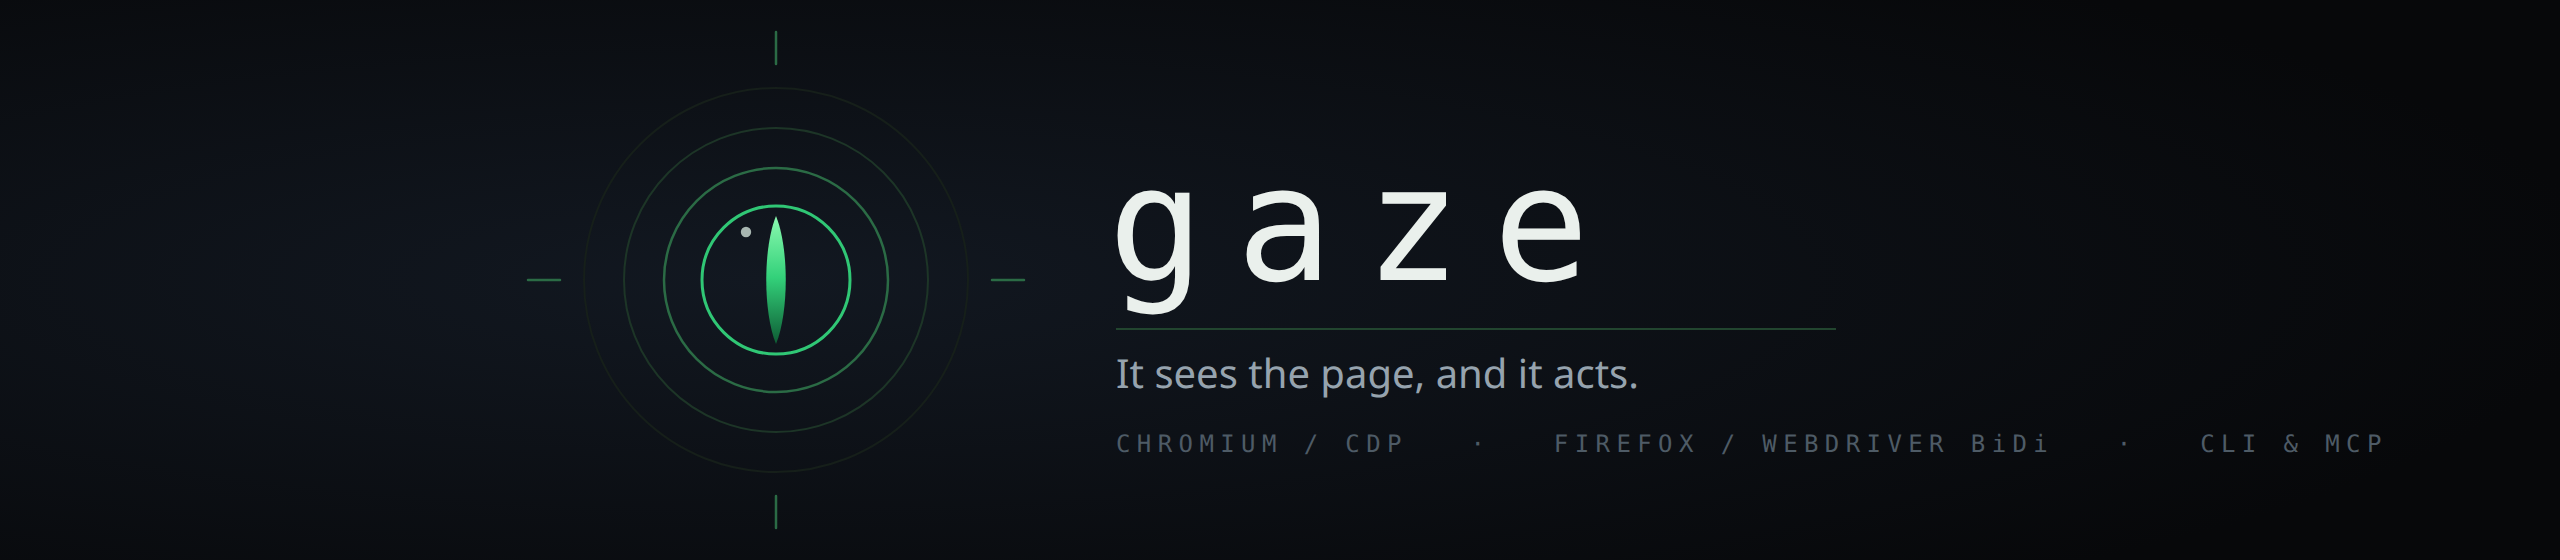
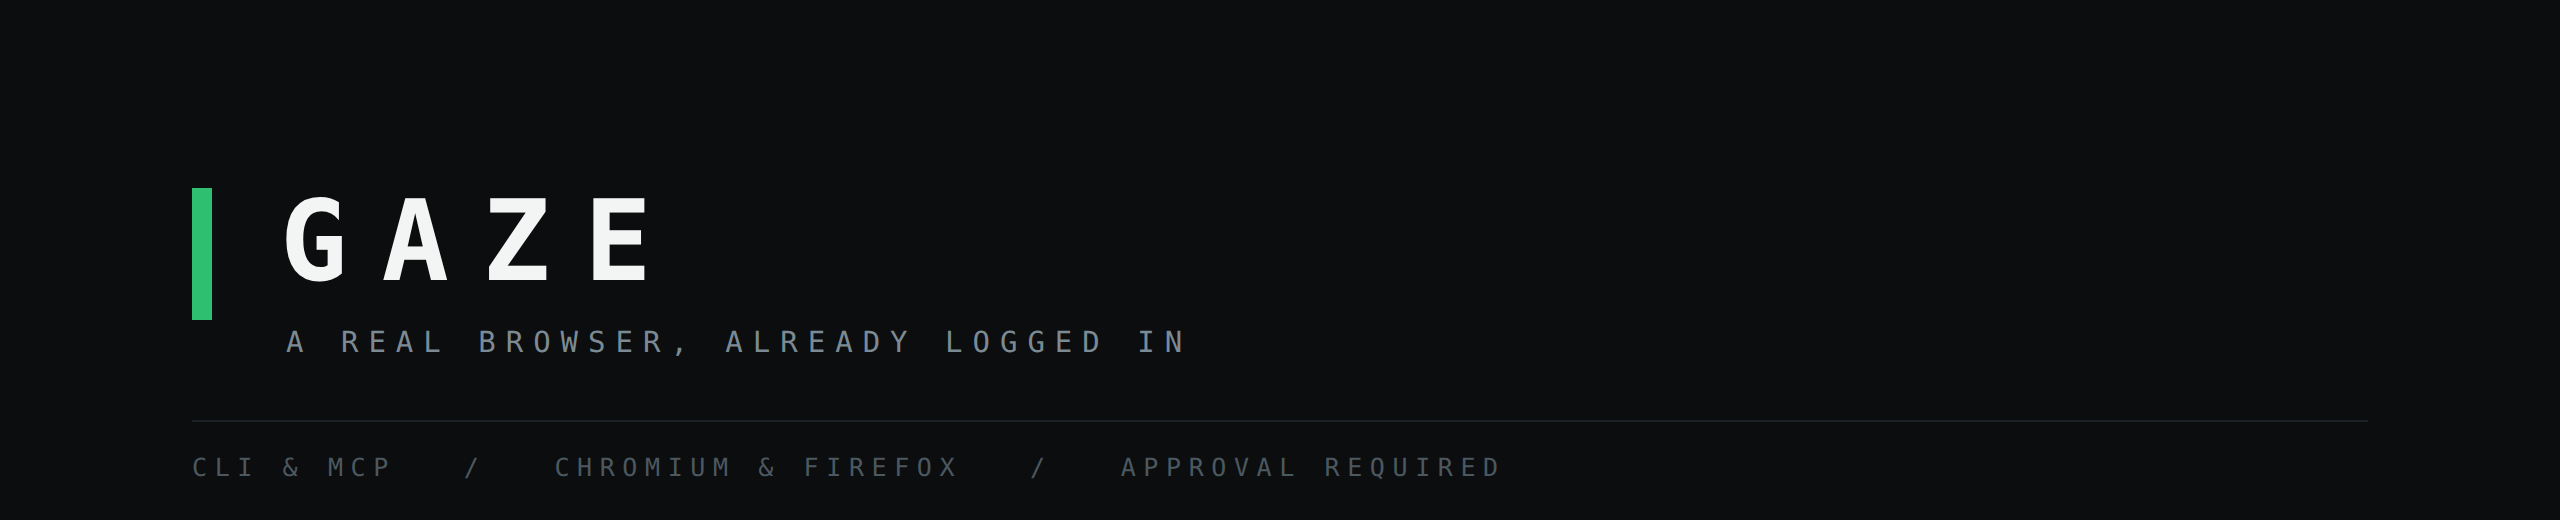
Flat typographic identity, a real demo, and a cleaner README
The art is now flat and typographic: solid background, uppercase
monospace wordmark, one solid green mark, one rule. No gradients, no glow,
no rendered illustration. It reads as calm and legible at any size, which
the previous eye motif did not.

The social card states plainly what this is rather than being atmospheric,
since its whole job is telling someone what they are looking at before
they click.

Badges removed. Three of the four were static text dressed as status, and
they fought the rest of the page for attention while telling a reader
nothing they could act on.

README reorganised for navigation: a doc nav row under the banner, the
pitch and demo above the fold, install and consent as the only expanded
sections, and everything else behind collapsibles. A reader should reach
"do I want this" in about fifteen seconds and "how do I run it" in thirty.

docs/demo.gif is generated by demo/record-demo.mjs, which runs REAL
commands against a local fixture with a throwaway browser and captures
the actual output. Nothing in it is mocked up, so behaviour changes show
up in the demo. It walks the story that matters: read a page, extract from
it, hit a page carrying instructions aimed at the AI and see it flagged,
attempt a write and be refused, approve once, then act. `npm run demo`
regenerates it.

diff --git a/README.md b/README.md
@@ -1,26 +1,25 @@
-<div align="center">
+<img src="docs/banner.png" alt="GAZE" width="100%">
 
-<img src="docs/banner.png" alt="gaze" width="100%">
+<p align="center">
+  <a href="docs/USAGE.md">Usage</a> &nbsp;·&nbsp;
+  <a href="docs/OPERATING.md">Operating</a> &nbsp;·&nbsp;
+  <a href="docs/SECURITY.md">Security</a> &nbsp;·&nbsp;
+  <a href="docs/COMPARISON.md">Comparison</a> &nbsp;·&nbsp;
+  <a href="docs/RESEARCH.md">Research</a>
+</p>
 
-<br>
-
-![Node](https://img.shields.io/badge/node-22%2B-1d3527?style=for-the-badge&labelColor=07080a&logo=node.js&logoColor=33D17A)
-![MCP](https://img.shields.io/badge/mcp-ready-1d3527?style=for-the-badge&labelColor=07080a)
-![Browsers](https://img.shields.io/badge/chromium%20%2B%20firefox-1d3527?style=for-the-badge&labelColor=07080a)
-![Last commit](https://img.shields.io/github/last-commit/KevinTrinhDev/gaze?style=for-the-badge&labelColor=07080a&color=1d3527)
-
-</div>
-
-<br>
+---
 
 Most browser automation drives a fresh, anonymous browser.
-`gaze` drives the one you are **already signed in to**.
+**`gaze` drives the one you are already signed in to.**
 
 It keeps a clone of your everyday profile, so your sessions come with it. Reading
 a page is free. Anything that *changes* something asks you first. Works from a
-shell or from an AI agent over MCP.
+shell, or from an AI agent over MCP.
 
-<br>
+<img src="docs/demo.gif" alt="gaze reading a page, catching a prompt-injection attempt, and refusing a write until approved" width="100%">
+
+---
 
 ## Install
 
@@ -40,9 +39,25 @@ gaze map                      # what is clickable, with a selector for each
 gaze stop
 ```
 
-Stuck? `gaze doctor` explains anything that will not start.
+Anything that will not start, `gaze doctor` explains.
 
-<br>
+## Consent
+
+Every capability is enabled. What changes is *when it asks*.
+
+Reads never prompt. Writes do. `batch` asks once for a whole script. `grant`
+gives a bounded standing approval, so a long task runs start to finish without
+interrupting you.
+
+```bash
+gaze grant --minutes 30       # approve once, then go
+GAZE_APPROVAL=fingerprint     # or tie approval to your fingerprint reader
+```
+
+With no terminal and no explicit opt-out, writes are **refused** rather than run
+silently.
+
+---
 
 <details>
 <summary><b>All commands</b></summary>
@@ -66,7 +81,7 @@ Stuck? `gaze doctor` explains anything that will not start.
 | `stats` `log` | what is slow, what fails |
 | `indicator` | a visible badge proving the browser is driven |
 
-Full detail in [docs/USAGE.md](docs/USAGE.md).
+Every flag is in [Usage](docs/USAGE.md).
 
 </details>
 
@@ -92,25 +107,6 @@ GAZE_BROWSER=firefox gaze start
 
 </details>
 
-<br>
-
-## Consent
-
-Every capability is enabled. What changes is *when it asks*.
-
-Reads never prompt. Writes do. `batch` asks once for a whole script. `grant`
-gives a bounded standing approval so a long task runs start to finish.
-
-```bash
-gaze grant --minutes 30       # approve once, then go
-GAZE_APPROVAL=fingerprint     # or tie approval to your fingerprint reader
-```
-
-With no terminal and no explicit opt-out, writes are **refused** rather than run
-silently.
-
-<br>
-
 <details>
 <summary><b>Driving it from an AI agent</b></summary>
 
@@ -122,9 +118,9 @@ silently.
     "env": { "GAZE_APPROVAL": "fingerprint" } } } }
 ```
 
-16 tools, working with Claude Code, Codex, or any MCP client. Every tool runs the
-same CLI, so both backends, the consent gate and the untrusted-content handling
-apply identically.
+16 tools, for Claude Code, Codex, or any MCP client. Every tool runs the same
+CLI, so both backends, the consent gate and the untrusted-content handling apply
+identically.
 
 **Transport is stdio only, deliberately.** Nothing listens on a port, so no remote
 or cloud agent can reach a browser holding your live sessions.
@@ -152,12 +148,12 @@ its source, and flag known injection patterns:
 [WARNING possible prompt injection: ignore-previous-instructions]
 ```
 
-Pass `--raw` for bare output. See [docs/SECURITY.md](docs/SECURITY.md).
+Pass `--raw` for bare output. Detail in [Security](docs/SECURITY.md).
 
 </details>
 
 <details>
-<summary><b>Tests</b></summary>
+<summary><b>Tests, and the demo</b></summary>
 
 <br>
 
@@ -165,26 +161,18 @@ Pass `--raw` for bare output. See [docs/SECURITY.md](docs/SECURITY.md).
 npm test              # Chromium
 npm run test:firefox  # Firefox
 npm run test:mcp      # MCP over real stdio
+npm run demo          # regenerate docs/demo.gif
 ```
 
 87 checks. Every suite launches a disposable browser with a temporary profile on
-its own port, so **none of them touches a real profile**. Safe to run any time.
+its own port, so **none of them touches a real profile**.
+
+The demo above is generated by running real commands and capturing real output.
+Nothing in it is mocked up, so if behaviour changes the demo changes with it.
 
 </details>
 
-<br>
-
-## Docs
-
-| | |
-|---|---|
-| [Usage](docs/USAGE.md) | every feature in depth, and the settings that change them |
-| [Operating](docs/OPERATING.md) | how the profile clone works, and traps worth knowing |
-| [Security](docs/SECURITY.md) | what this can do, and the rules that follow |
-| [Comparison](docs/COMPARISON.md) | versus Playwright MCP, Chrome DevTools MCP, Claude in Chrome, Firecrawl. Including where `gaze` loses |
-| [Research](docs/RESEARCH.md) | the papers behind every design decision here |
-
-<br>
+---
 
 ## Use with discretion
 
@@ -199,8 +187,6 @@ as-is, with no warranty and no liability.
 
 <br>
 
-<div align="center">
-
-MPL-2.0 &nbsp;·&nbsp; part of the [BASILISK](https://github.com/KevinTrinhDev/basilisk-browser) ecosystem
-
-</div>
+<p align="center">
+MPL-2.0 &nbsp;·&nbsp; part of the <a href="https://github.com/KevinTrinhDev/basilisk-browser">BASILISK</a> ecosystem
+</p>
